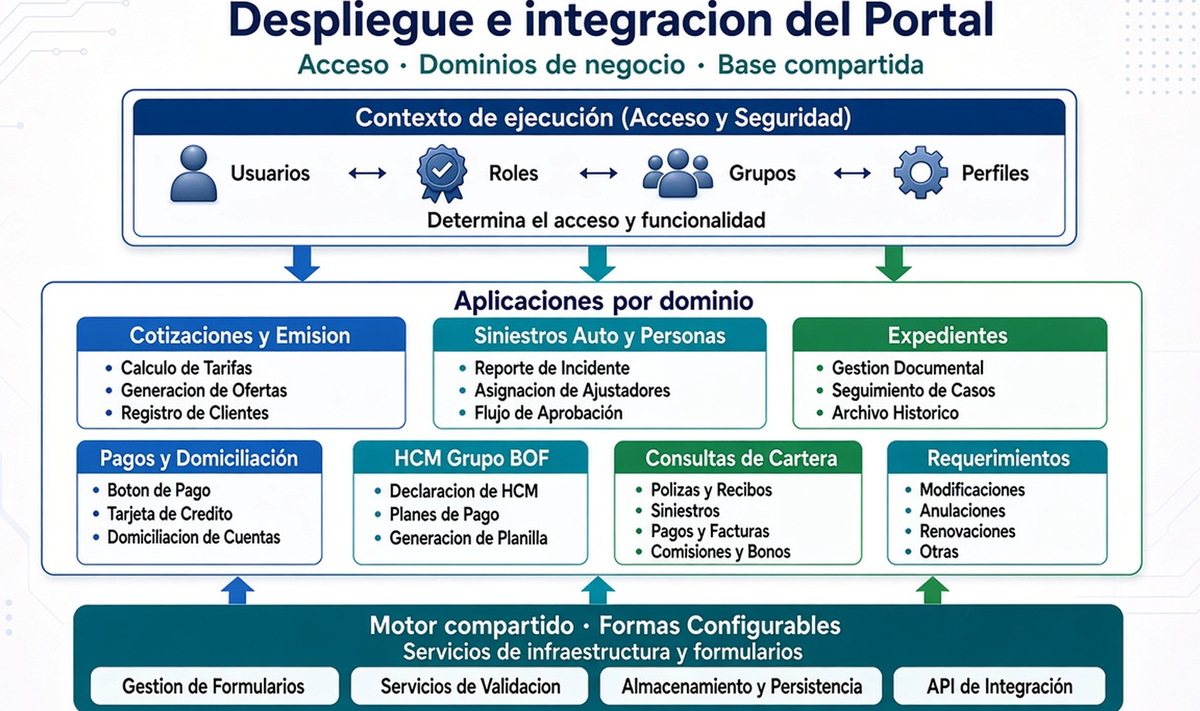
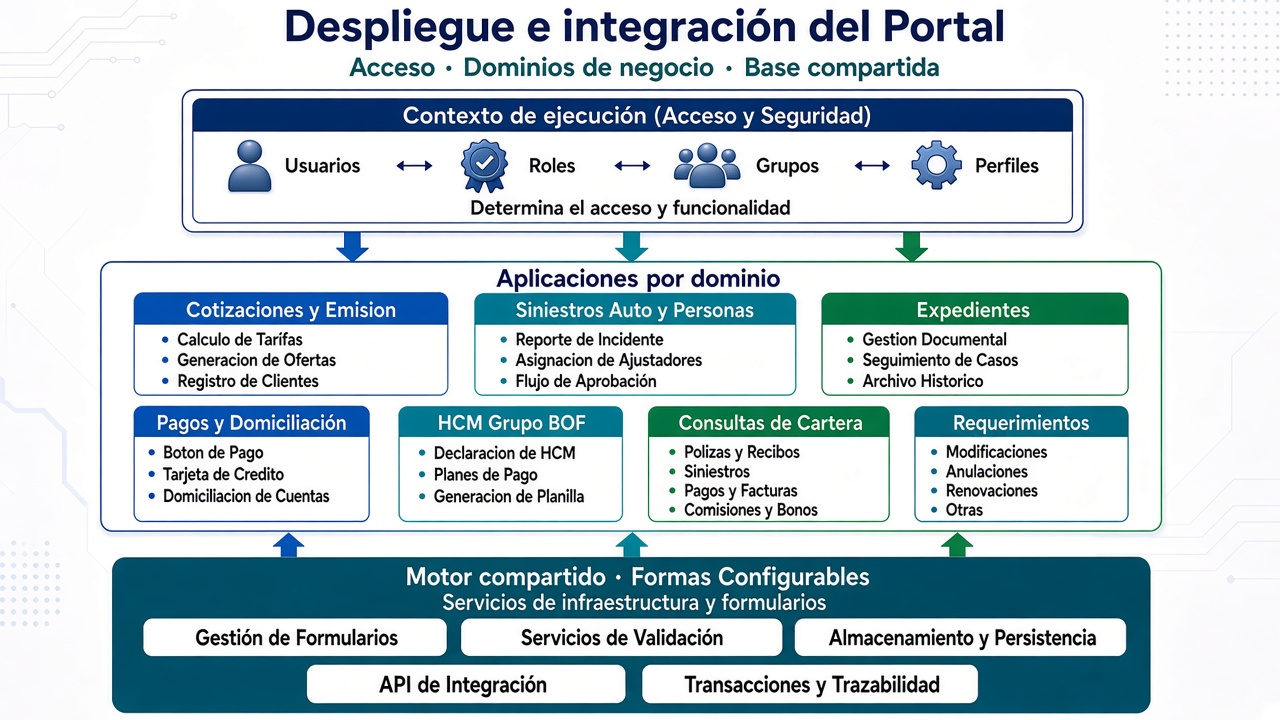
Ajustes Presentacion Portal

diff --git a/portal/index.html b/portal/index.html
@@ -1057,7 +1057,7 @@
             Detalle de Órdenes médicas:
             <a href="ordenes_medicas/index.html" style="color:#0d47a1; font-weight:700; text-decoration:none;">ver funcionalidades →</a>
             <br>
-            Detalle de Registro de transacciones y traza:
+            Detalle de Registro de transacciones y trazabilidad:
             <a href="transacciones/index.html" style="color:#0d47a1; font-weight:700; text-decoration:none;">ver funcionalidades →</a>
           </div>
         </section>
